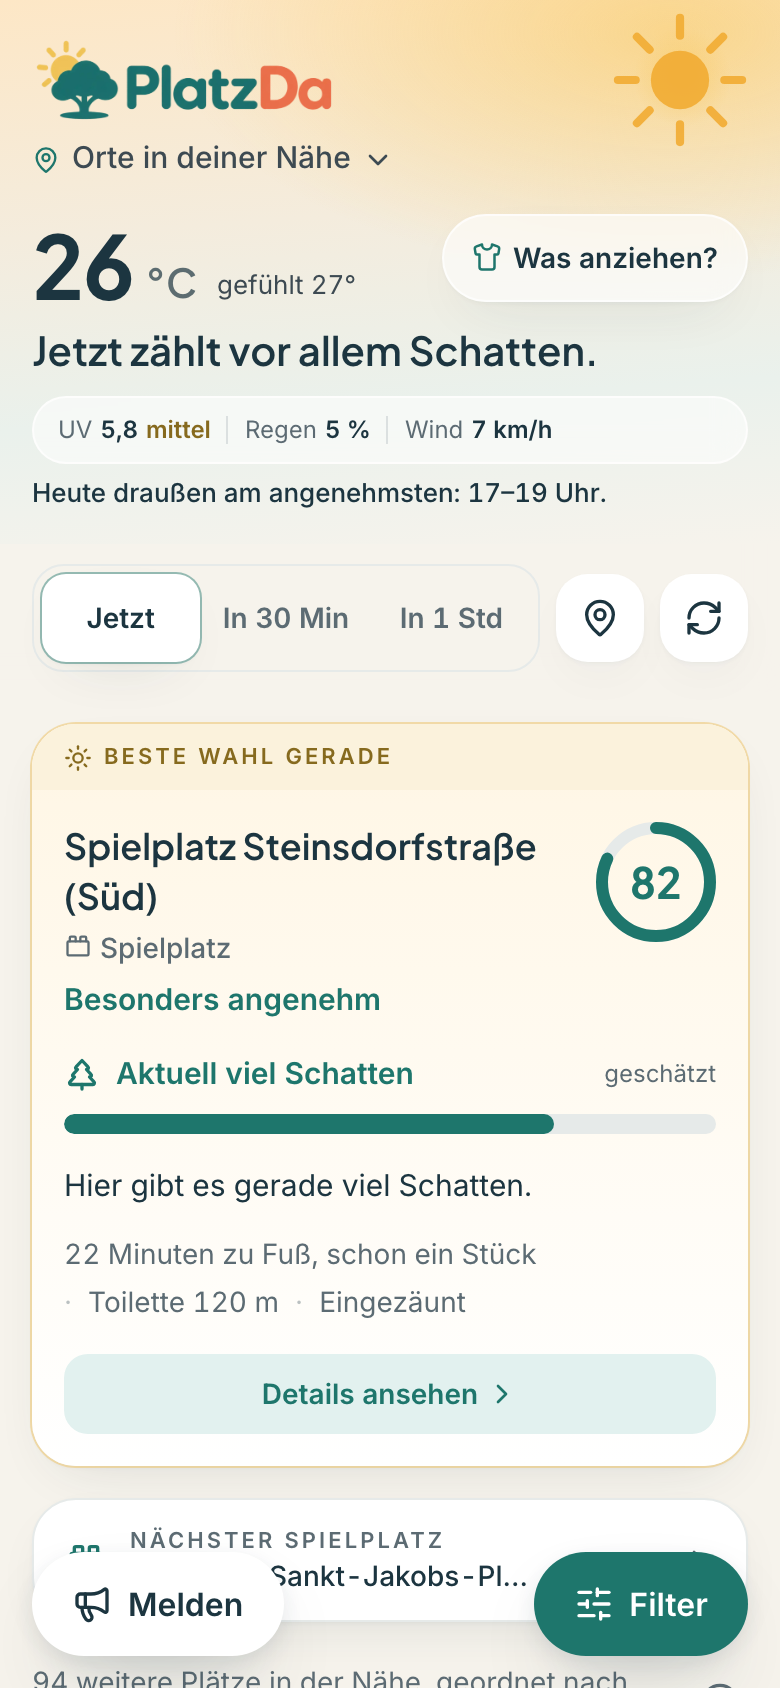
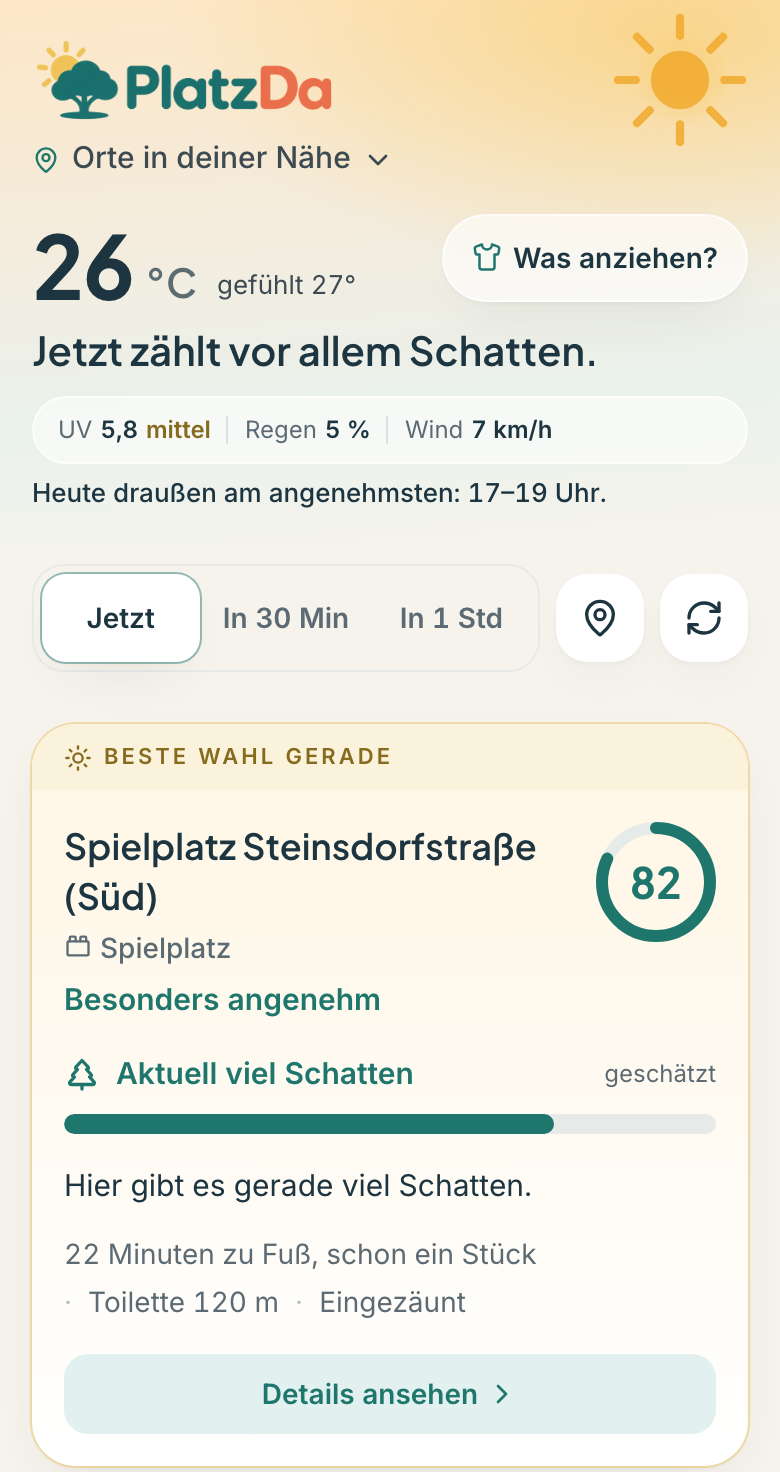
Landing nach Doppel-Review: eine Desktop-Achse, ehrlicher Geräterahmen, Physik exakt
Zwei unabhängige Prüfberichte (Design-Direktion, Craft-QA) in einem Zug:

- Desktop-Achsenbruch behoben: alle Sektionen liegen ab lg im selben
  max-w-4xl-Container wie der Hero (H1 und H2s fluchten bei x=272 statt
  180 px zu springen); Wissen, Schritte und FAQ als Dreispalter, die
  Szene als Panorama – die Seite nutzt die Breite, statt Mobil
  aufzublasen
- iPhone-Mock: app-vorschau.png oben verankert auf 780x1472 beschnitten,
  endet jetzt ruhig unter der „Beste Wahl"-Karte statt mitten in einer
  Textzeile mit schwebenden Melden/Filter-Knöpfen (bewusst keine
  Dynamic-Island-Attrappe: dort sitzt das App-Logo)
- Animations-Physik exakt: 50-%-Keyframe legt die Sonne genau dann über
  den Stamm, wenn der Schatten die Seite wechselt (vorher zeigten beide
  sekundenlang nach Osten); Nacht-Blende hält Position und Länge fest,
  bis alles unsichtbar ist (Sonne rutschte halb sichtbar 85 px zurück);
  Streckung auf ±1.45 und w-24, damit der Morgenschatten auch bei
  320 px in der Karte endet; Sonnenscheitel über der Krone
- Finale als Abendhimmel-Band (landing-finale), E-Mail-Links mit
  whitespace-nowrap und einheitlichem Stil, Fokusring blendet nicht
  mehr von Weiß ein (transition nur noch background-color/transform),
  Footer mit Trennlinie und 44-px-Tap-Zielen, text-balance auf
  zentrierten Absätzen

Gemessen: Sonne hält bei t=22s ihren West-Platz (801/801,3 px), kein
horizontaler Überstand bei 320 px; Typecheck, Lint, 140 Tests grün.

diff --git a/components/landing/Landing.tsx b/components/landing/Landing.tsx
@@ -44,7 +44,7 @@ export function Landing() {
 
             <a
               href={TESTFLIGHT_URL}
-              className="mt-8 inline-flex min-h-14 items-center justify-center rounded-full bg-primary-dark px-8 text-[17px] font-semibold text-white shadow-float transition hover:bg-primary-darker active:scale-[0.98]"
+              className="mt-8 inline-flex min-h-14 items-center justify-center rounded-full bg-primary-dark px-8 text-[17px] font-semibold text-white shadow-float transition-[background-color,transform] hover:bg-primary-darker active:scale-[0.98]"
             >
               Kostenlos testen
             </a>
@@ -64,7 +64,7 @@ export function Landing() {
                   src="/app-vorschau.png"
                   alt="Die PlatzDa-App zeigt die beste Wahl gerade: Spielplatz mit viel Schatten, bewertet mit 82 von 100"
                   width={780}
-                  height={1688}
+                  height={1472}
                   className="w-full"
                 />
               </div>
@@ -76,11 +76,12 @@ export function Landing() {
       {/* ---- Signatur: der Schatten wandert, physikalisch richtig ---- */}
       <section
         aria-label="Schatten wandert über den Tag"
-        className="mx-auto w-full max-w-xl px-5"
+        className="mx-auto w-full max-w-xl px-5 lg:max-w-4xl lg:px-0"
       >
         <div className="relative -mt-6 overflow-hidden rounded-card bg-card shadow-card">
-          {/* Die Szene: Himmel, Wiese, ein Baum – randlos bis an die Karte. */}
-          <div className="landing-szene relative h-44 overflow-hidden">
+          {/* Die Szene: Himmel, Wiese, ein Baum – randlos bis an die Karte,
+              ab lg als breites Panorama. */}
+          <div className="landing-szene relative h-44 overflow-hidden lg:h-52">
             <span
               aria-hidden
               className="wander-sonne landing-sonne absolute top-4 size-8 rounded-full"
@@ -95,7 +96,7 @@ export function Landing() {
                 nach Osten, negativ kippt nach Westen. */}
             <span
               aria-hidden
-              className="wander-schatten absolute bottom-8 left-1/2 h-2.5 w-28 rounded-[50%] bg-[#3f5a3c]/30"
+              className="wander-schatten absolute bottom-8 left-1/2 h-2.5 w-24 rounded-[50%] bg-[#3f5a3c]/30"
             />
             <svg
               aria-hidden
@@ -109,7 +110,7 @@ export function Landing() {
               <circle cx="29" cy="21" r="12" fill="#37a08e" />
             </svg>
           </div>
-          <p className="px-6 pt-5 pb-6 text-center text-[15px] leading-relaxed text-muted lg:text-base">
+          <p className="px-6 pt-5 pb-6 text-center text-[15px] leading-relaxed text-balance text-muted lg:text-base">
             Schatten wandert mit der Sonne.{" "}
             <span className="font-semibold text-dark">
               PlatzDa rechnet ihn voraus
@@ -120,11 +121,14 @@ export function Landing() {
       </section>
 
       {/* ---- Was man vor dem Losgehen weiß ---- */}
-      <section className="mx-auto w-full max-w-xl px-5 pt-14 lg:pt-20">
+      {/* Ab lg liegen alle Sektionen im selben max-w-4xl-Container wie der
+          Hero (lg:px-0, weil dort das Padding außen am Header sitzt) –
+          H1 und H2s fluchten auf einer Achse statt zu springen. */}
+      <section className="mx-auto w-full max-w-xl px-5 pt-14 lg:max-w-4xl lg:px-0 lg:pt-20">
         <h2 className="font-display text-2xl leading-snug font-bold sm:text-3xl">
           Was du weißt, bevor ihr losgeht
         </h2>
-        <div className="mt-6 space-y-6">
+        <div className="mt-6 space-y-6 lg:grid lg:grid-cols-3 lg:gap-8 lg:space-y-0">
           <div className="border-l-2 border-primary/40 pl-4">
             <h3 className="font-display text-lg font-semibold">
               Schatten, der stimmt
@@ -160,11 +164,11 @@ export function Landing() {
       </section>
 
       {/* ---- Echte Sequenz, darum nummeriert ---- */}
-      <section className="mx-auto w-full max-w-xl px-5 pt-12 lg:pt-16">
+      <section className="mx-auto w-full max-w-xl px-5 pt-12 lg:max-w-4xl lg:px-0 lg:pt-16">
         <h2 className="font-display text-2xl leading-snug font-bold sm:text-3xl">
           So testest du PlatzDa
         </h2>
-        <ol className="mt-6 space-y-4">
+        <ol className="mt-6 space-y-4 lg:grid lg:grid-cols-3 lg:gap-8 lg:space-y-0">
           {[
             [
               "TestFlight laden",
@@ -198,7 +202,7 @@ export function Landing() {
       </section>
 
       {/* ---- Der Absender: ein Ich mit Namen ---- */}
-      <section className="mx-auto w-full max-w-xl px-5 pt-12 lg:pt-16">
+      <section className="mx-auto w-full max-w-xl px-5 pt-12 lg:max-w-4xl lg:px-0 lg:pt-16">
         <h2 className="font-display text-2xl leading-snug font-bold sm:text-3xl">
           Wer dahintersteckt
         </h2>
@@ -208,7 +212,7 @@ export function Landing() {
           schreib mir:{" "}
           <a
             href="mailto:kontakt@nicolas-daum.ai"
-            className="font-medium text-primary-dark underline underline-offset-2"
+            className="font-medium whitespace-nowrap text-primary-dark underline underline-offset-2"
           >
             kontakt@nicolas-daum.ai
           </a>
@@ -216,8 +220,8 @@ export function Landing() {
       </section>
 
       {/* ---- Ehrlichkeit: die Fußnote zu allem darüber ---- */}
-      <section className="mx-auto w-full max-w-xl px-5 pt-6">
-        <p className="rounded-card bg-primary-soft p-5 text-[15px] leading-relaxed text-primary-dark">
+      <section className="mx-auto w-full max-w-xl px-5 pt-6 lg:max-w-4xl lg:px-0">
+        <p className="rounded-card bg-primary-soft p-5 text-[15px] leading-relaxed text-primary-dark lg:max-w-2xl">
           Orte und Ausstattung stammen von OpenStreetMap, das Wetter von
           Open-Meteo. Der Schatten ist{" "}
           <span className="font-semibold">gerechnet, nicht gemessen</span> – eine
@@ -226,11 +230,11 @@ export function Landing() {
       </section>
 
       {/* ---- Kurz gefragt ---- */}
-      <section className="mx-auto w-full max-w-xl px-5 pt-12 lg:pt-16">
+      <section className="mx-auto w-full max-w-xl px-5 pt-12 lg:max-w-4xl lg:px-0 lg:pt-16">
         <h2 className="font-display text-2xl leading-snug font-bold sm:text-3xl">
           Kurz gefragt
         </h2>
-        <dl className="mt-6 space-y-5">
+        <dl className="mt-6 space-y-5 lg:grid lg:grid-cols-3 lg:gap-8 lg:space-y-0">
           <div>
             <dt className="font-display text-[17px] font-semibold">
               Was ist TestFlight?
@@ -262,35 +266,42 @@ export function Landing() {
         </dl>
       </section>
 
-      {/* ---- Finale ---- */}
-      <section className="mx-auto w-full max-w-xl px-5 pt-16 pb-6 text-center">
-        <a
-          href={TESTFLIGHT_URL}
-          className="inline-flex min-h-16 items-center justify-center rounded-full bg-primary-dark px-10 text-lg font-semibold text-white shadow-float transition hover:bg-primary-darker active:scale-[0.98]"
-        >
-          Jetzt mittesten
-        </a>
-        <p className="mt-4 text-sm text-muted">
-          Android? Noch nicht – schreib mir, wenn du dabei sein willst:{" "}
+      {/* ---- Finale: dieselbe Geste wie der Anfang, nur als Abend ---- */}
+      <section className="mx-auto w-full max-w-xl px-5 pt-16 pb-6 lg:max-w-4xl lg:px-0">
+        <div className="landing-finale rounded-card px-6 py-12 text-center lg:py-14">
           <a
-            href="mailto:kontakt@nicolas-daum.ai"
-            className="underline underline-offset-2"
+            href={TESTFLIGHT_URL}
+            className="inline-flex min-h-16 items-center justify-center rounded-full bg-primary-dark px-10 text-lg font-semibold text-white shadow-float transition-[background-color,transform] hover:bg-primary-darker active:scale-[0.98]"
           >
-            kontakt@nicolas-daum.ai
+            Jetzt mittesten
           </a>
-        </p>
+          <p className="mt-4 text-sm text-balance text-muted">
+            Android? Noch nicht – schreib mir, wenn du dabei sein willst:{" "}
+            <a
+              href="mailto:kontakt@nicolas-daum.ai"
+              className="font-medium whitespace-nowrap text-primary-dark underline underline-offset-2"
+            >
+              kontakt@nicolas-daum.ai
+            </a>
+          </p>
+        </div>
       </section>
 
-      <footer className="mx-auto flex w-full max-w-xl flex-wrap justify-center gap-x-4 gap-y-1 px-5 pt-6 pb-[max(2rem,env(safe-area-inset-bottom))] text-xs text-muted">
-        <Link href="/impressum" className="underline underline-offset-2">
-          Impressum
-        </Link>
-        <Link href="/datenschutz" className="underline underline-offset-2">
-          Datenschutz
-        </Link>
-        <Link href="/so-funktionierts" className="underline underline-offset-2">
-          So funktioniert&apos;s
-        </Link>
+      <footer className="mx-auto w-full max-w-xl px-5 pb-[max(2rem,env(safe-area-inset-bottom))]">
+        <div className="flex flex-wrap justify-center gap-x-4 border-t border-line pt-4 text-xs text-muted">
+          <Link href="/impressum" className="py-2 underline underline-offset-2">
+            Impressum
+          </Link>
+          <Link href="/datenschutz" className="py-2 underline underline-offset-2">
+            Datenschutz
+          </Link>
+          <Link
+            href="/so-funktionierts"
+            className="py-2 underline underline-offset-2"
+          >
+            So funktioniert&apos;s
+          </Link>
+        </div>
       </footer>
     </div>
   );

diff --git a/app/globals.css b/app/globals.css
@@ -238,20 +238,35 @@ textarea,
     0 0 0 8px rgb(242 172 51 / 0.18),
     0 0 32px 12px rgb(242 172 51 / 0.28);
 }
+/* Das Finale endet mit derselben Geste, mit der die Seite beginnt: ein
+   flacher Abendhimmel – Licht oben, Wärme am Horizont. */
+.landing-finale {
+  background: linear-gradient(180deg, #fdf6ea 0%, #f8ddab 100%);
+}
+/* Drei Verabredungen, gemessen statt gehofft:
+   1. Der 50-%-Keyframe legt die Sonne EXAKT über den Stamm, genau wenn der
+      Schatten die Seite wechselt – ohne ihn kreuzt die Sonne die Baumachse
+      früher als der Schatten und beide zeigen sekundenlang nach Osten.
+   2. In der Nacht-Blende (91→96 %) bleiben Position und Länge eingefroren;
+      erst unsichtbar (96→100 %) wird zurückgestellt. Sonst rutscht die
+      Sonne halb sichtbar rückwärts.
+   3. Maximal ±1.45 Streckung, damit der Morgenschatten auch in der
+      320-px-Karte endet statt an der Kante abgeschnitten zu werden. */
 @keyframes wander-sonne {
   0%   { left: 7%;  transform: translateY(52px); opacity: 0; }
   6%   { opacity: 1; }
-  50%  { transform: translateY(0); }
+  50%  { left: calc(50% - 1rem); transform: translateY(-8px); }
   91%  { left: calc(93% - 2rem); transform: translateY(52px); opacity: 1; }
-  96%  { opacity: 0; }
+  96%  { left: calc(93% - 2rem); transform: translateY(52px); opacity: 0; }
   100% { left: 7%; transform: translateY(52px); opacity: 0; }
 }
 @keyframes wander-schatten {
-  0%   { transform: scale(1.7, 0.5); opacity: 0; }
+  0%   { transform: scale(1.45, 0.5); opacity: 0; }
   6%   { opacity: 0.7; }
-  50%  { transform: scale(0.32, 0.5); opacity: 1; }
-  91%  { transform: scale(-1.7, 0.5); opacity: 0.7; }
-  96%, 100% { opacity: 0; }
+  50%  { transform: scale(0.08, 0.5); opacity: 1; }
+  91%  { transform: scale(-1.45, 0.5); opacity: 0.7; }
+  96%  { transform: scale(-1.45, 0.5); opacity: 0; }
+  100% { transform: scale(1.45, 0.5); opacity: 0; }
 }
 .wander-sonne { animation: wander-sonne 24s ease-in-out infinite; }
 .wander-schatten {
